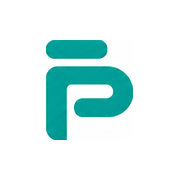
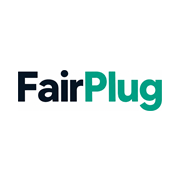
Nieuw app-icoon: FairPlug-woordmerk op witte tegel

Changed region(s): [[0.0833, 0.3611, 0.9167, 0.7778], [0.25, 0.2222, 0.6111, 0.3333]]

diff --git a/sw.js b/sw.js
@@ -1,5 +1,5 @@
 // FairPlug service worker: maakt de app installeerbaar en cachet de schil.
-const CACHE = 'fairplug-v3';
+const CACHE = 'fairplug-v4';
 const FILES = ['./', './index.html', './manifest.webmanifest', './icons/icon-192.png', './icons/icon-512.png'];
 self.addEventListener('install', e => { e.waitUntil(caches.open(CACHE).then(c => c.addAll(FILES))); self.skipWaiting(); });
 self.addEventListener('activate', e => { e.waitUntil(caches.keys().then(ks => Promise.all(ks.filter(k => k !== CACHE).map(k => caches.delete(k))))); self.clients.claim(); });
